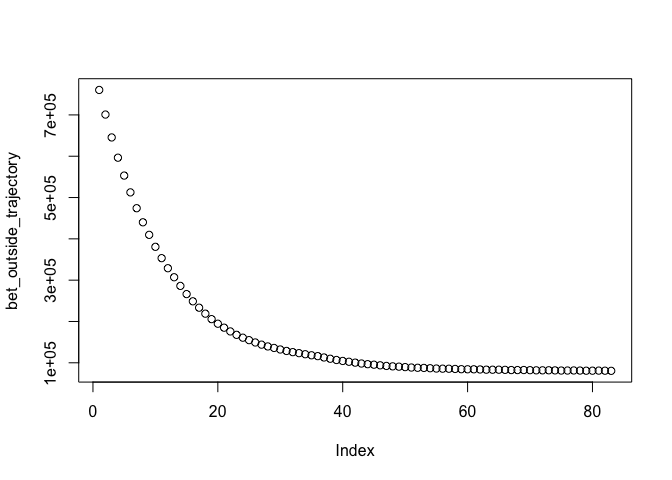
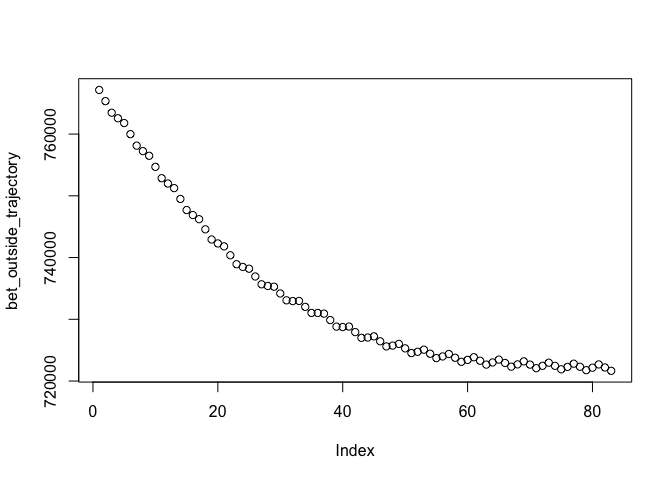
default tuning to proportion of fishing mortality implemented

diff --git a/README.md b/README.md
@@ -99,7 +99,7 @@ library(tidyverse)
 options(dplyr.summarise.inform = FALSE)
 
 
-resolution <- 20 # resolution is in squared patches, so 20 implies a 20X20 system, i.e. 400 patches 
+resolution <- 25 # resolution is in squared patches, so 20 implies a 20X20 system, i.e. 400 patches 
 
 years <- 20
 
@@ -144,7 +144,9 @@ fauna <-
       adult_movement_sigma = 2, # standard deviation of the number of patches moved by adults
       fished_depletion = .6, # desired equilibrium depletion with fishing (1 = unfished, 0 = extinct),
       rec_form = 1, # recruitment form, where 1 implies local recruitment
-      seasons = seasons
+      seasons = seasons,
+      init_explt = 0.2, 
+      explt_type = "f"
       ),
     "bigeye" = create_critter(
       common_name = "bigeye tuna",
@@ -155,7 +157,9 @@ fauna <-
       adult_movement_sigma = 1,
       fished_depletion = .1,
       rec_form = 1,
-      seasons = seasons
+      seasons = seasons,
+      init_explt = 0.3, 
+      explt_type = "f"
     )
   )
 #> ══  1 queries  ═══════════════
@@ -181,14 +185,16 @@ fleets <- list("longline" = list(
     sel_form = "logistic", # selectivity form, one of logistic or dome
     sel_start = .9, # percentage of length at maturity that selectivity starts
     sel_delta = .1, # additional percentage of sel_start where selectivity asymptotes
-    catchability = .01 # overwritten by tune_fleet but can be set manually here
+    catchability = .01, # overwritten by tune_fleet but can be set manually here
+    p_explt = 0.1
   ),
   bigeye = list(
     price = 1000,
     sel_form = "logistic",
     sel_start = .1,
     sel_delta = .01,
-    catchability = .01
+    catchability = .01,
+    p_explt = 1
   )
 ),
 "purseseine" = list(
@@ -197,25 +203,36 @@ fleets <- list("longline" = list(
     sel_form = "logistic",
     sel_start = 0.25,
     sel_delta = .1,
-    catchability = .3
+    catchability = .01,
+    p_explt = 0.9
   ),
   bigeye = list(
     price = 100,
     sel_form = "logistic",
     sel_start = .25,
     sel_delta = .5,
-    catchability = .1
+    catchability = .01,
+    p_explt = 1
   )
 ))
 
 
-fleets <- create_fleet(fleets = fleets, fauna = fauna, base_effort = resolution^2) # creates fleet objects, basically adding in selectivity ogives
+fleets <-
+  create_fleet(fleets = fleets,
+               fauna = fauna,
+               base_effort = resolution ^ 2) # creates fleet objects, basically adding in selectivity ogives
+
 a <- Sys.time()
 
 fleets <- tune_fleets(fauna, fleets, years = 50) # tunes the catchability by fleet to achieve target depletion
+
+# fleets$purseseine$skipjack$catchability / fleets$longline$skipjack$catchability
+
+# fleets$purseseine$bigeye$catchability / fleets$longline$bigeye$catchability
+
 ## different fleets for each species?
 Sys.time() - a
-#> Time difference of 3.982837 mins
+#> Time difference of 0.228662 secs
 
 # run simulations
 
@@ -228,7 +245,7 @@ storage <- simmar(fauna = fauna,
                   years = years)
 
 Sys.time() - a
-#> Time difference of 1.068718 secs
+#> Time difference of 3.215286 secs
   
 
 # process results, will write some wrappers to automate this
@@ -266,10 +283,10 @@ ggplot(check, aes(x, y, fill = bet)) +
 # double check that target depletions are reached
 
 (sum(ssb_bet) / fauna$bigeye$ssb0) / fauna$bigeye$fished_depletion
-#> [1] 1.074629
+#> [1] 9.453106
 
 (sum(ssb_skj) / fauna$skipjack$ssb0) / fauna$skipjack$fished_depletion
-#> [1] 1.004551
+#> [1] 1.64231
 ```
 
 Now, simulate effects of MPAs
@@ -301,7 +318,7 @@ mpa_storage <- simmar(
 )
 
 Sys.time() - a
-#> Time difference of 1.154105 secs
+#> Time difference of 2.81859 secs
 
 ssb_skj <- rowSums(mpa_storage[[steps]]$skipjack$ssb_p_a)
 
